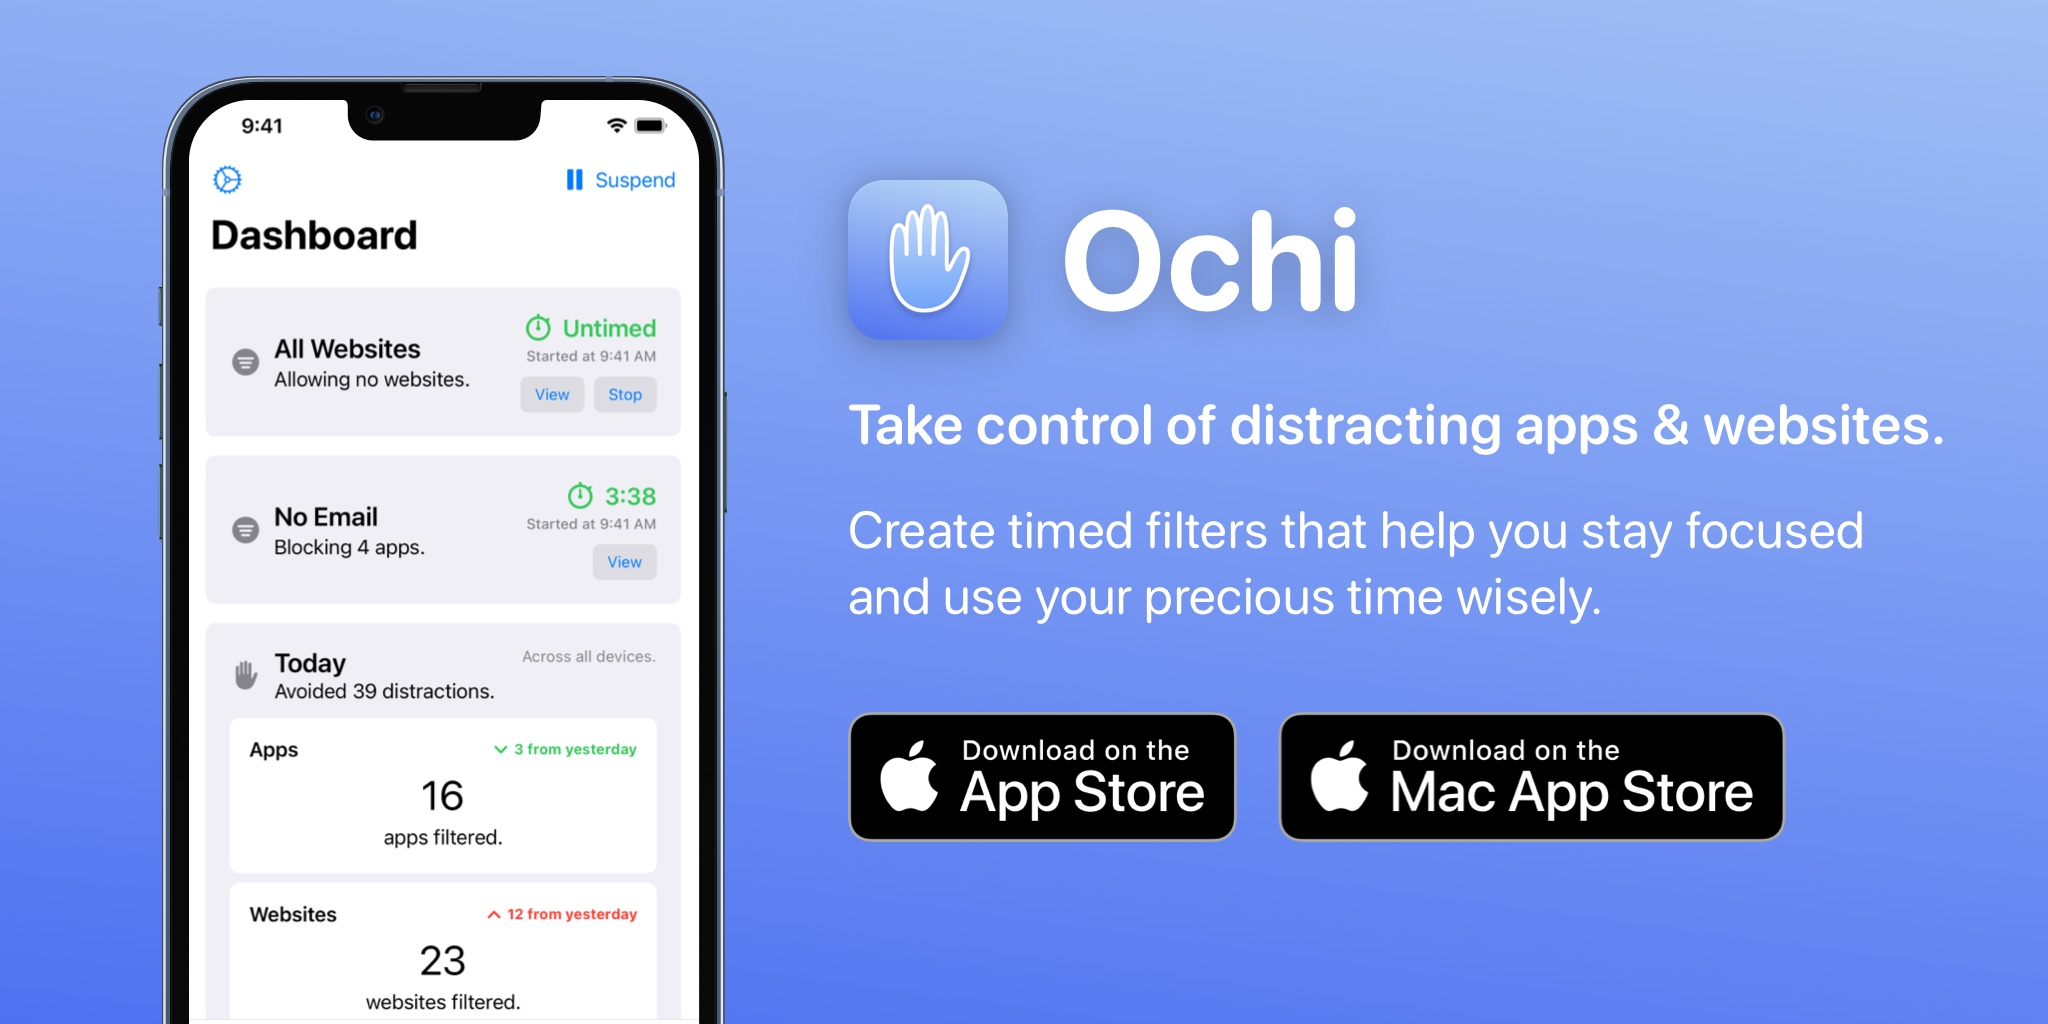
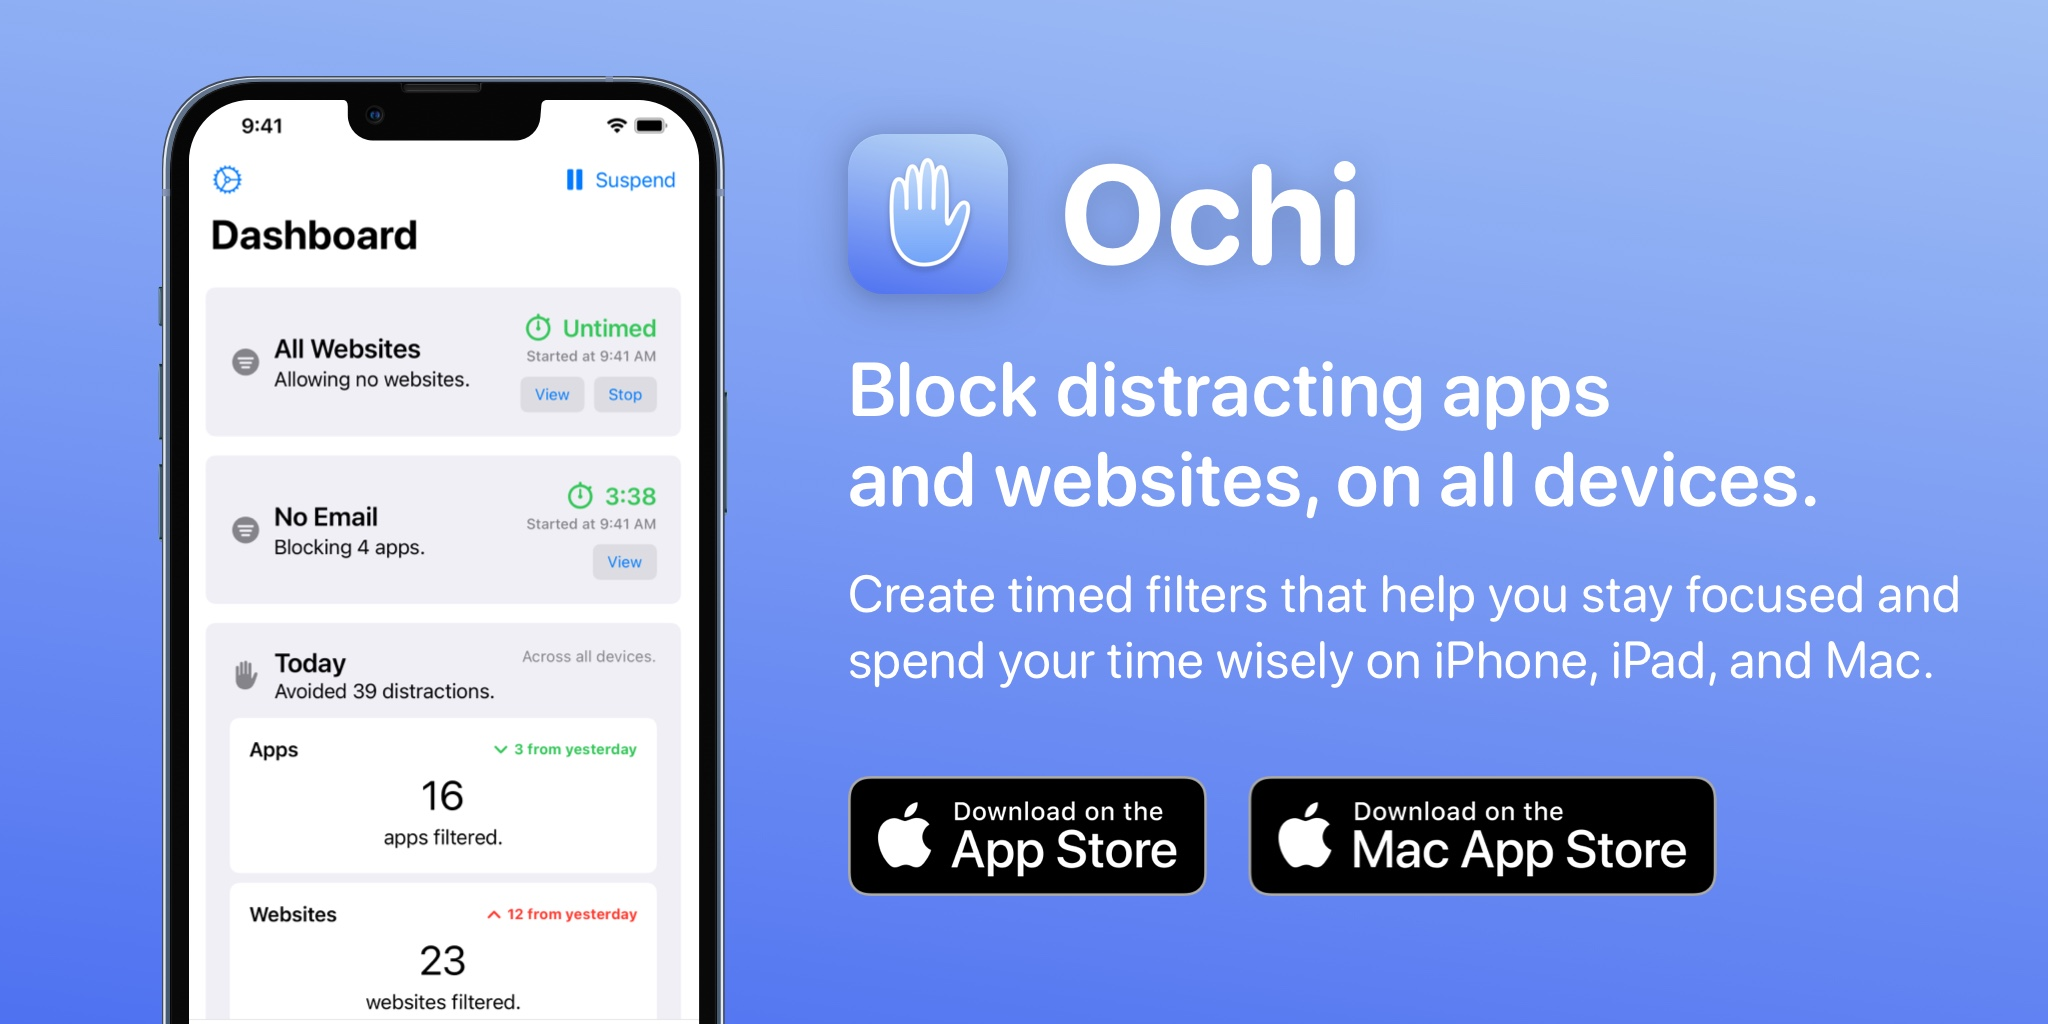
LOOKS: Adjust landing page multi-device pics

Changed region(s): [[0.4062, 0.125, 0.9688, 0.875]]

diff --git a/_includes/head.html b/_includes/head.html
@@ -23,8 +23,8 @@
 	<meta property="og:image" content="/assets/ochi_twitter_banner.jpg">
 	<meta name="twitter:card" content="summary_large_image">
 	<meta name="twitter:site" content="@OchiTheApp">
-	<meta name="twitter:title" content="Ochi: Block distracting Apps & Websites on iPhone, iPad, and Mac.">
-	<meta name="twitter:description" content="Create timed filters that help you stay focused.">
+	<meta name="twitter:title" content="Ochi: Block distracting apps & websites on all devices.">
+	<meta name="twitter:description" content="Create timed filters that help you stay focused and spend your time wisely on iPhone, iPad, and Mac.">
 	<meta name="twitter:image" content="https://ochithe.app/assets/ochi_twitter_banner.jpg">
 
 	<!-- Safari 15 Tab Bar Background-->
